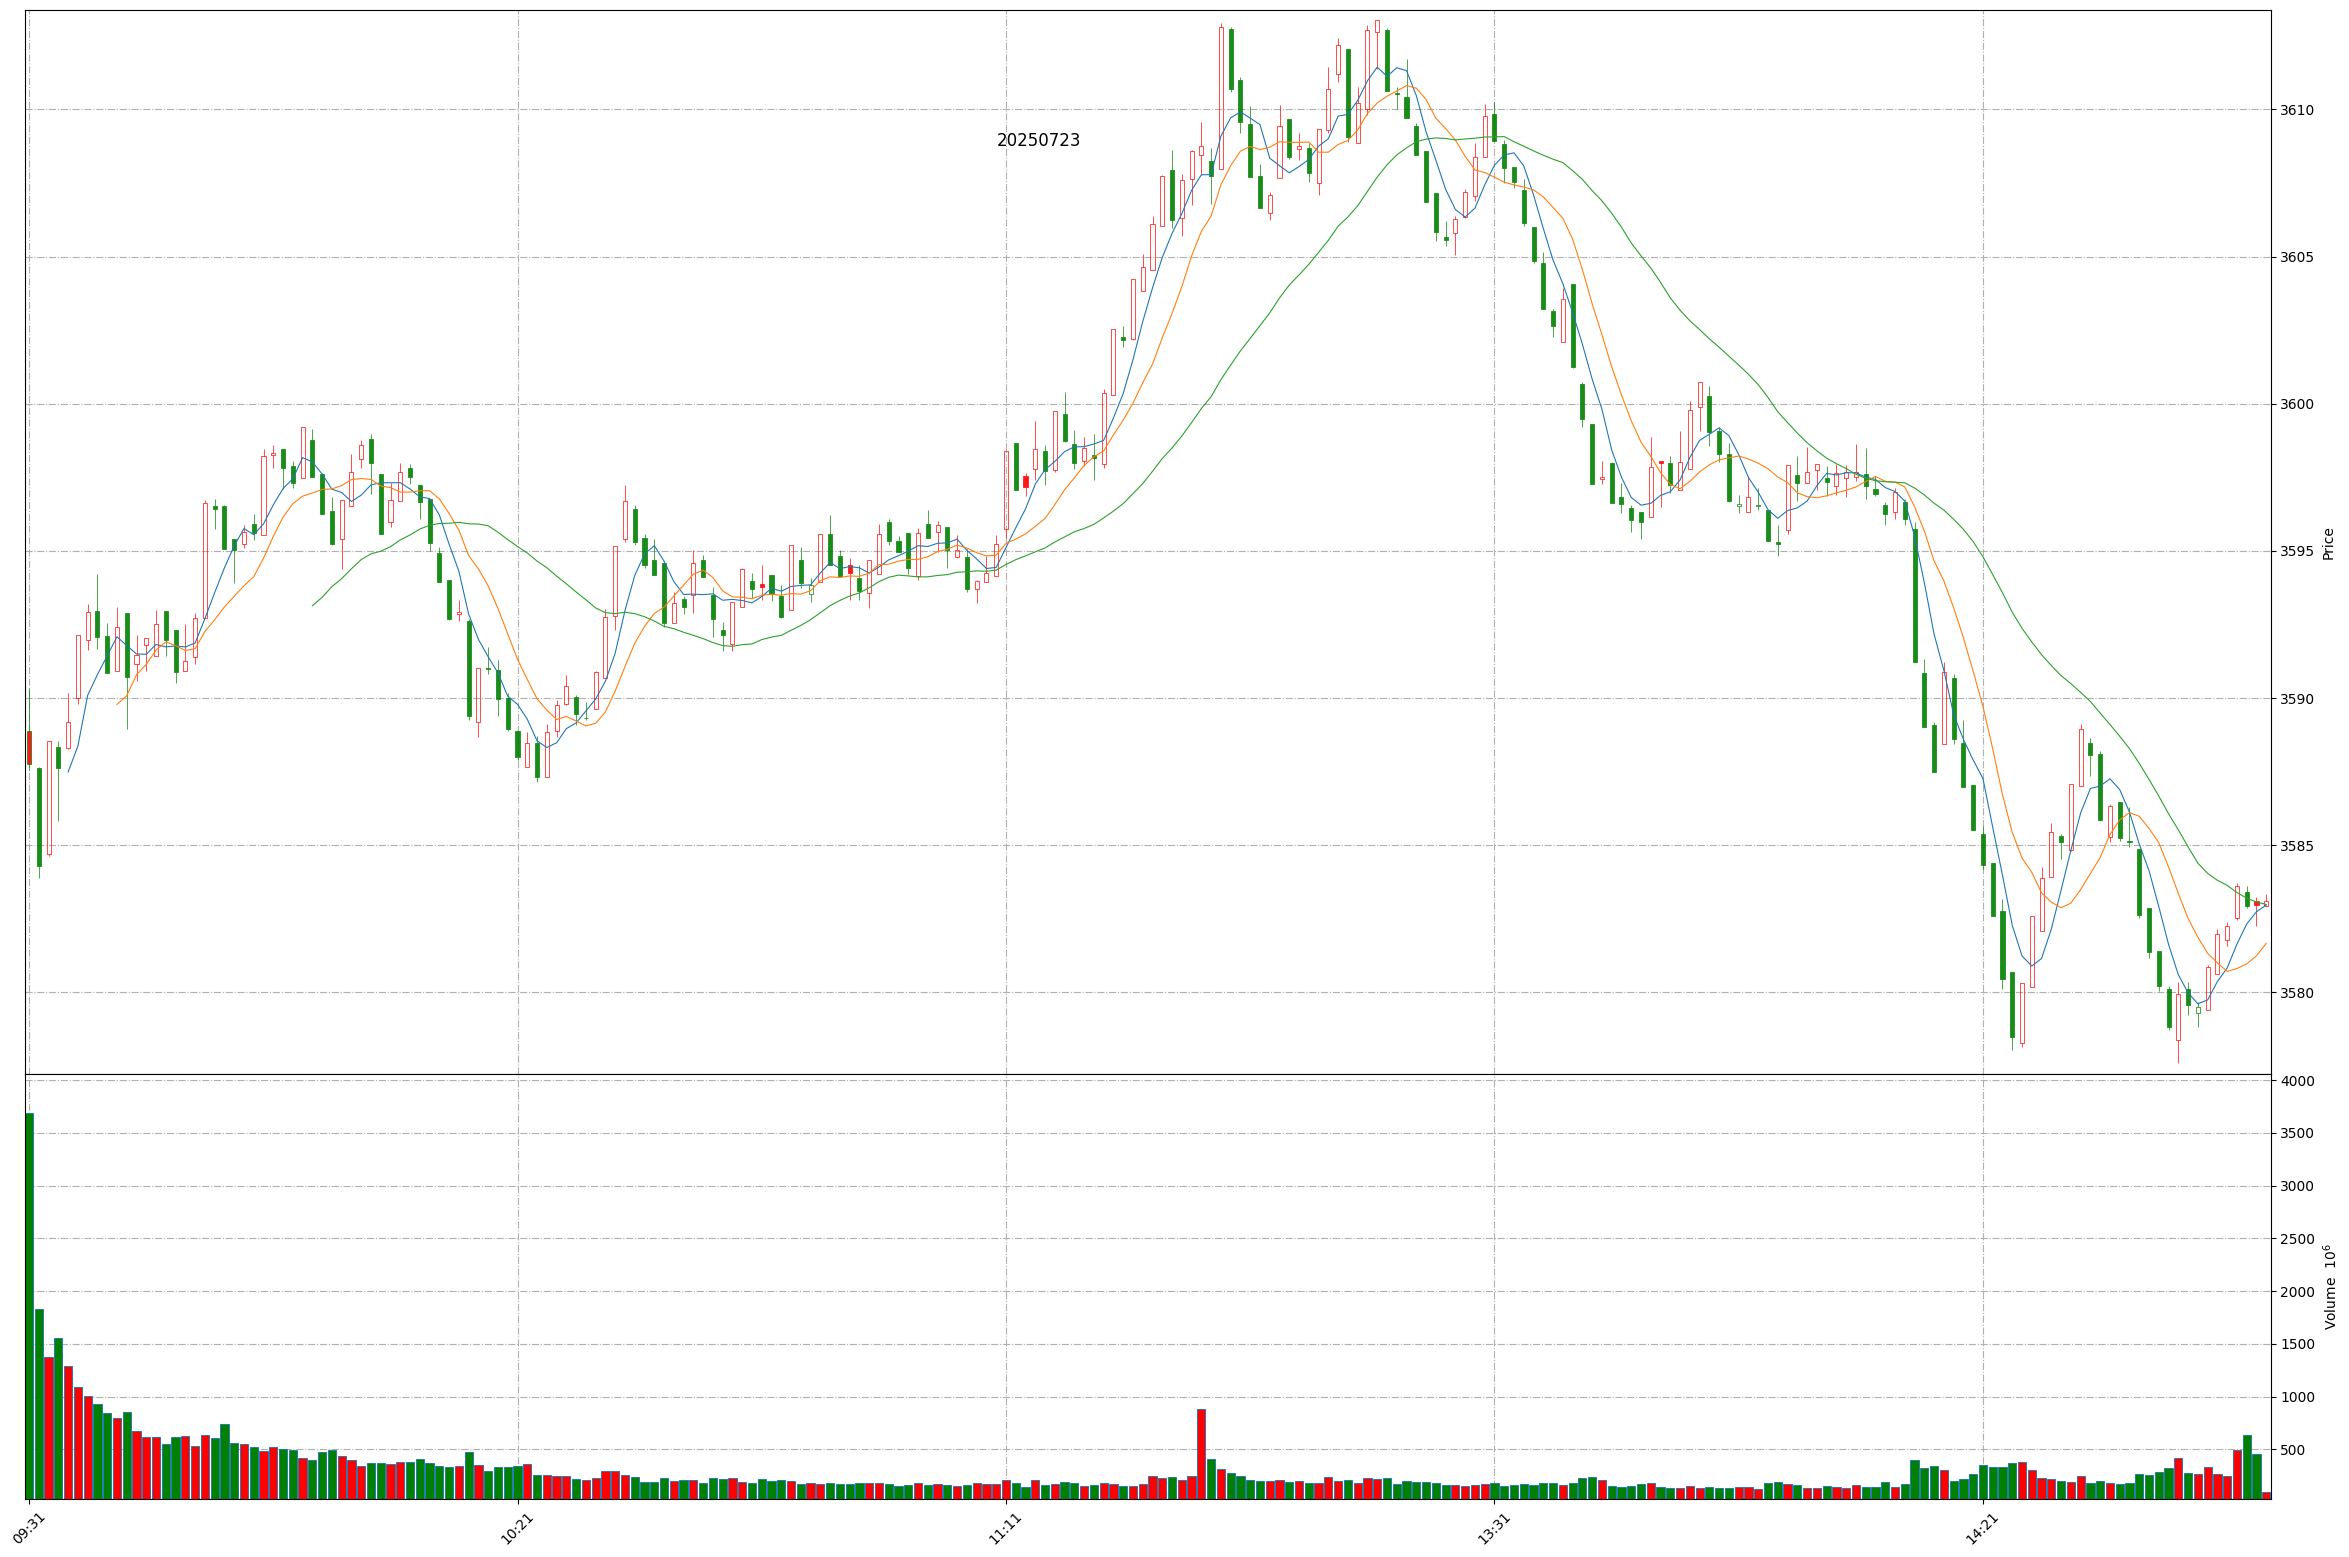
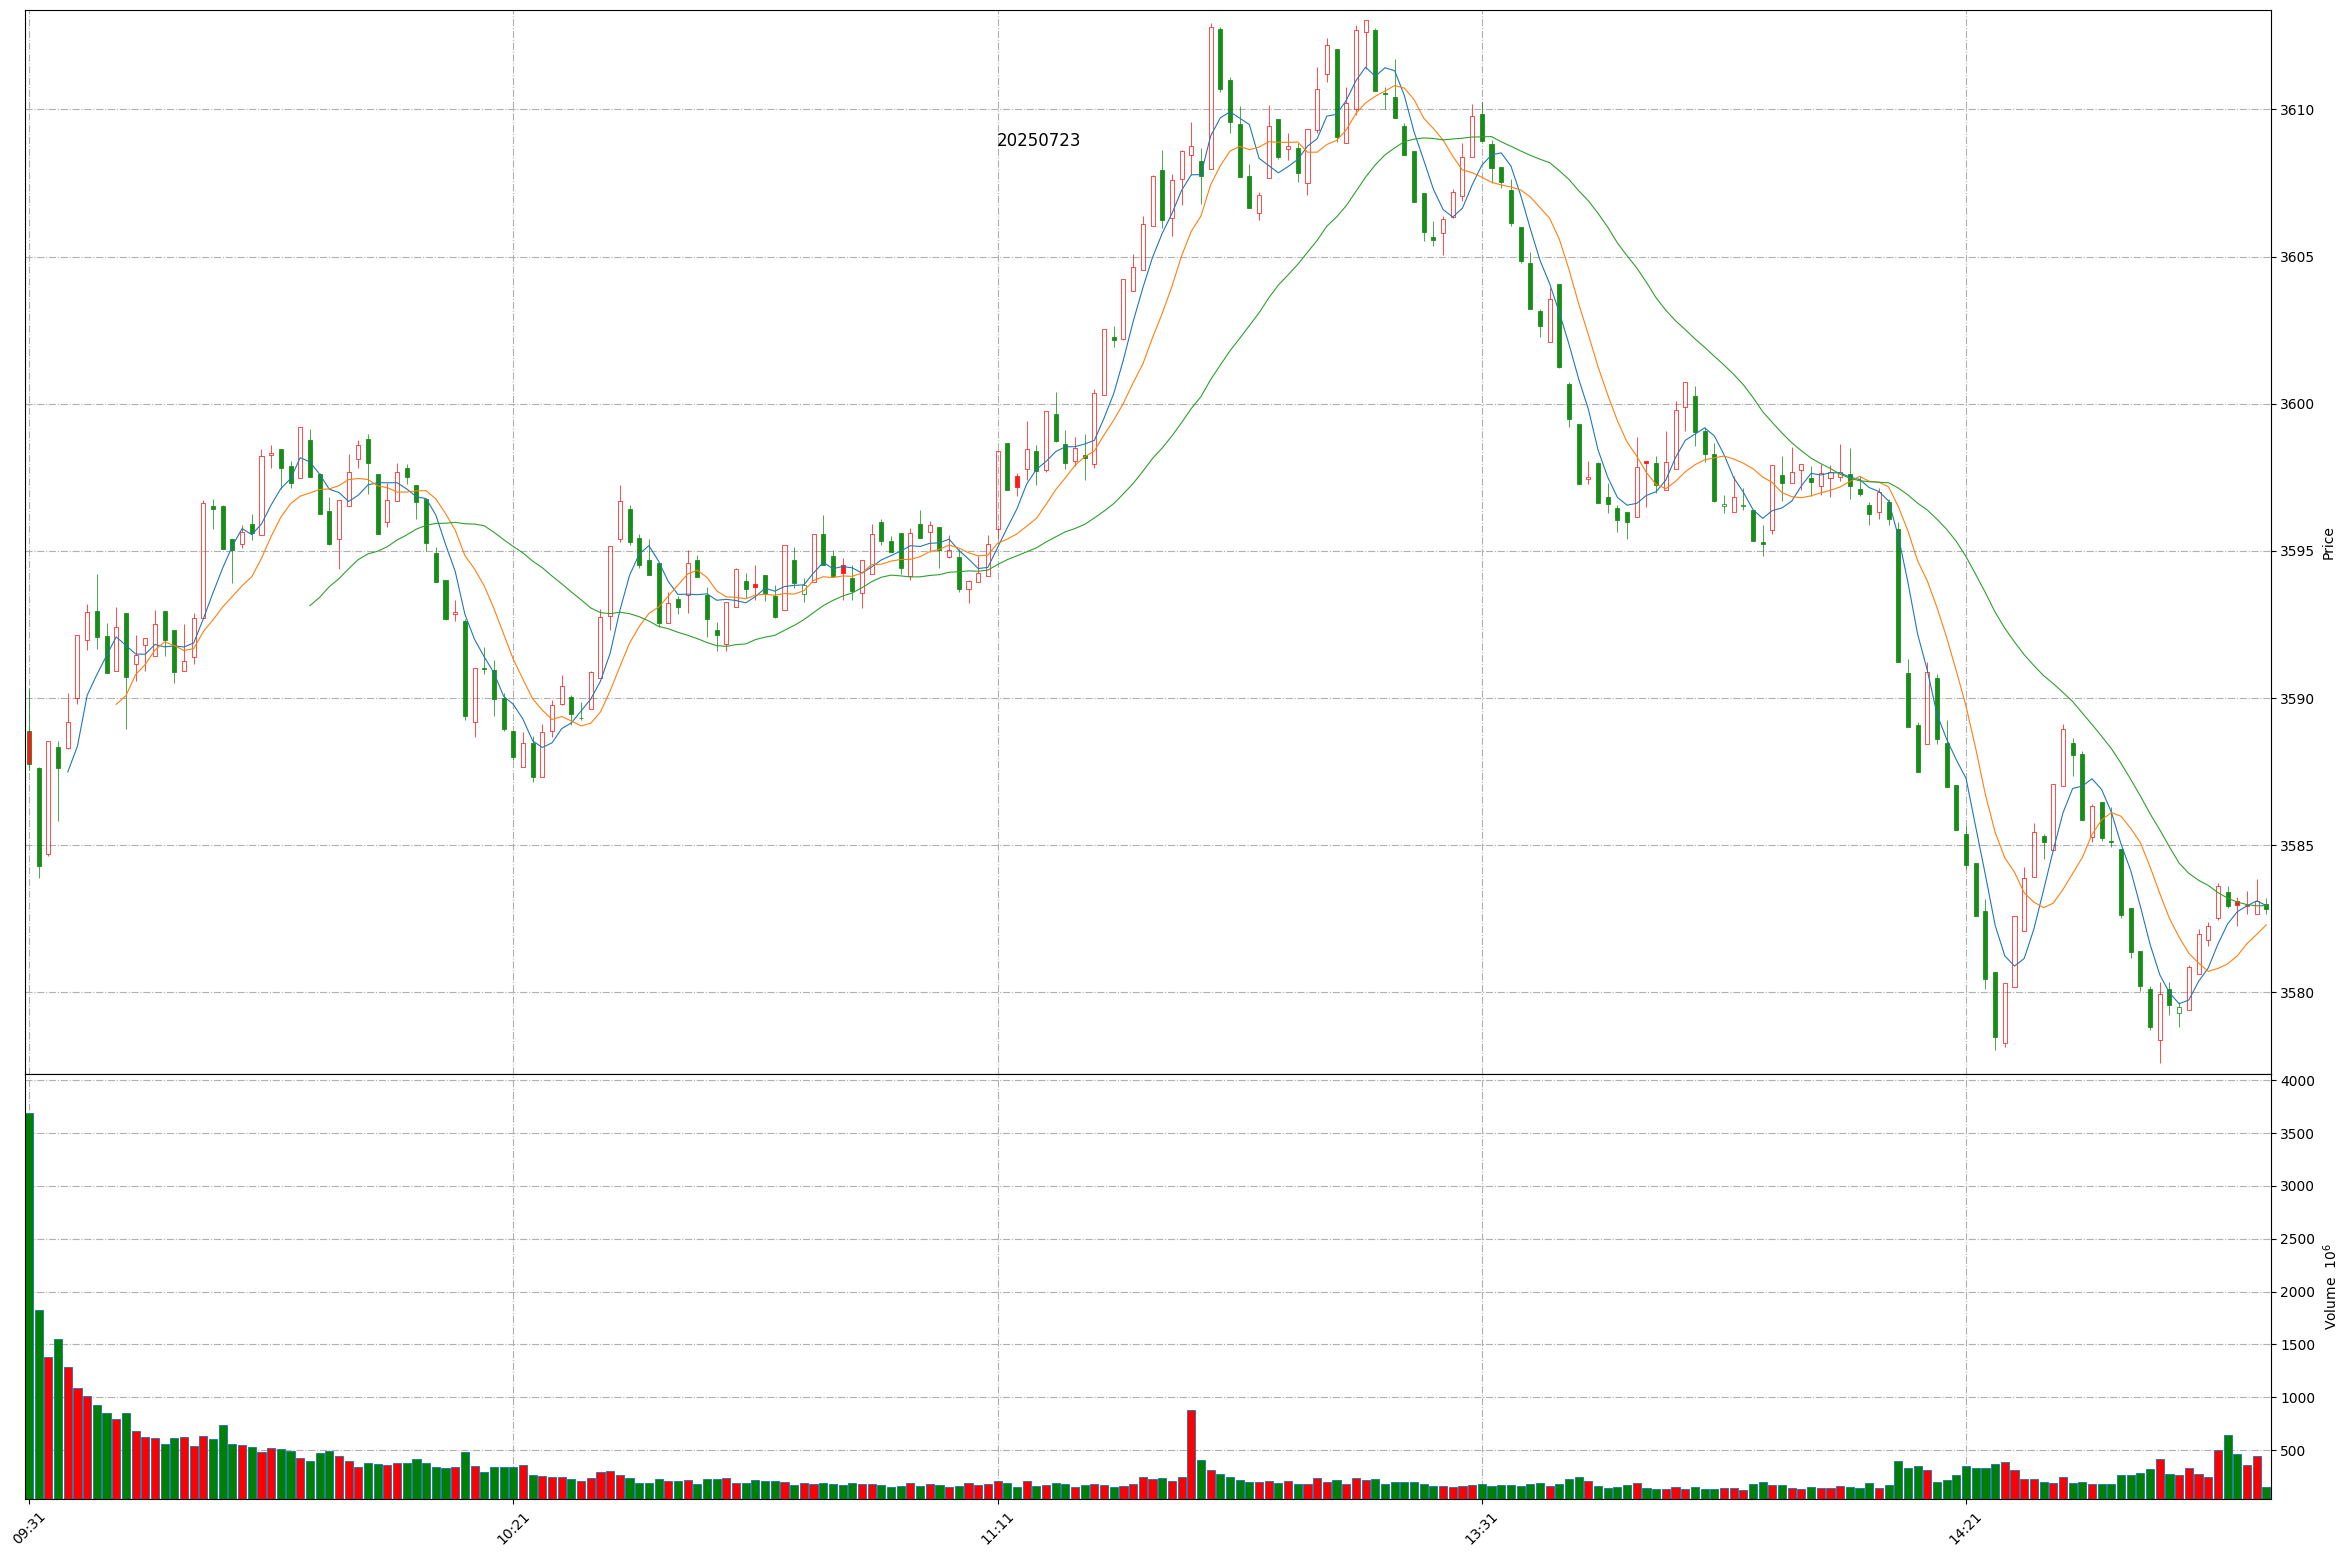
Github action update at 2025-07-23 14:51:44.

Changed region(s): [[0.0932, 0.0308, 0.9634, 0.6782], [0.0311, 0.894, 0.9634, 0.9865], [0.0311, 0.3699, 0.0932, 0.4624]]

diff --git a/README.md b/README.md
@@ -1,11 +1,11 @@
 
 # Daily-A-share-market-quotes 每日 A 股指数（5min 更新）- 20250723
 
-### 上证指数 20250723 14:49
+### 上证指数 20250723 14:51
 ![](./fig/2025/7/20250723-sh000001.png)
 
-### 深证成指 20250723 14:49
+### 深证成指 20250723 14:51
 ![](./fig/2025/7/20250723-sz399001.png)
 
-### 北证50 20250723 14:49
+### 北证50 20250723 14:51
 ![](./fig/2025/7/20250723-bj899050.png)
